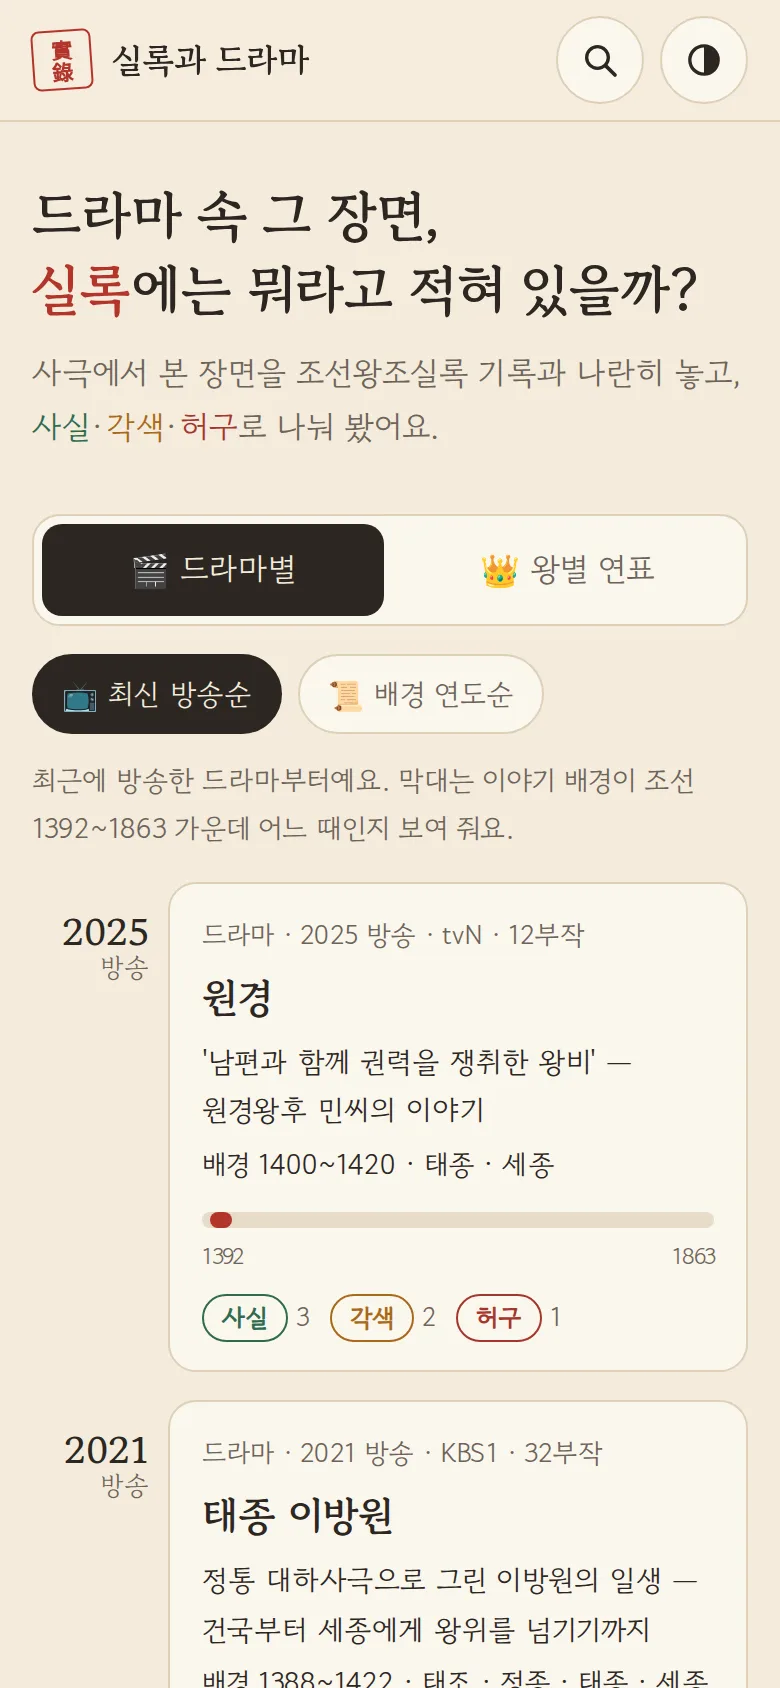
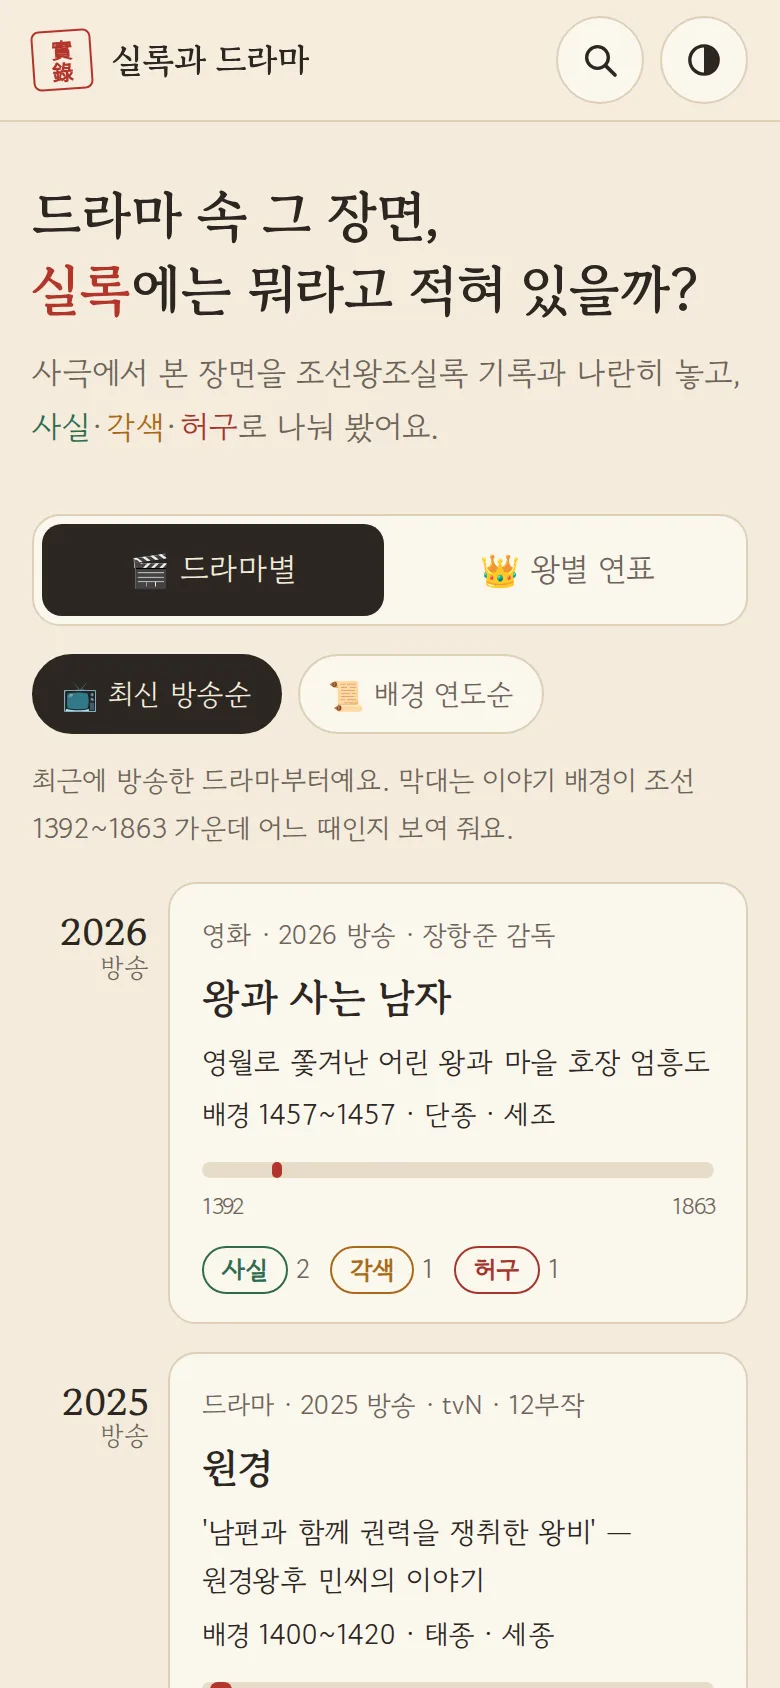
실록과 드라마 카드: 왕 25명·사건 166·드라마 28 반영(설명·첫 화면 캡처) + 작업 히스토리

diff --git a/app/data/apps.ts b/app/data/apps.ts
@@ -498,22 +498,22 @@ export const apps: App[] = [
     longDescription: `사극에서 본 장면을 조선왕조실록 기록과 나란히 놓고, 사실·각색·허구 도장을 찍었습니다. 실록이 뼈대이고 드라마는 입구예요.
 
 🎬 드라마로 들어가기
-『원경』 · 『옷소매 붉은 끝동』 · 『태종 이방원』 · 『장옥정, 사랑에 살다』 · 『동이』 · 『사도』(영화) · 『육룡이 나르샤』 · 『이산』 · 『7일의 왕비』 · 『대장금』 · 『여인천하』 — 최신 방송순(또는 배경 연도순)으로 골라, 장면마다 드라마 내용과 실제 기록을 비교하고 그 사건의 실록 페이지로 이어집니다. 결말 내용은 흐리게 가려 두고, 누르면 보여요.
+드라마·영화 28편 — 『왕과 사는 남자』 『원경』 『연인』 『노량』 『올빼미』 『한산』 『옷소매 붉은 끝동』 『철인왕후』 『태종 이방원』 『남한산성』 『구르미 그린 달빛』 『사도』 『명량』 『관상』 『장옥정』 『광해』 『뿌리 깊은 나무』 『공주의 남자』 『동이』 『이산』 『왕의 남자』 『대장금』 『불멸의 이순신』 『여인천하』 등. 최신 방송순(또는 배경 연도순)으로 골라, 장면마다 드라마 내용과 실제 기록을 비교하고 그 사건의 실록 페이지로 이어집니다. 결말 내용은 흐리게 가려 두고, 누르면 보여요.
 
 📜 왕별 실록 연표
-조선 왕 25명을 연도순으로, 왕 이름을 누르면 펼쳐져요. 지금은 태조~태종 시대(정몽주의 죽음, 두 차례 왕자의 난, 후궁을 들이자 울며 막아선 원경왕후, 민씨 형제의 몰락, 양녕 폐세자) 사건 25개, 중종 시대(중종반정, 7일 만에 폐위된 왕비 신씨, 기묘사화, 의녀 대장금) 17개, 숙종 시대(경신·기사·갑술환국, 인현왕후 폐위와 복위, 희빈 장씨의 죽음, 백두산정계비) 13개, 영조·정조 시대(균역법, 임오화변과 사도세자, "과인은 사도세자의 아들이다", 의빈 성씨와 문효세자, 수원 화성) 25개. 드라마를 고르면 그 드라마에 나오는 사건만 걸러 볼 수 있어요.
+태조부터 철종까지 조선 왕 25명, 실록 사건 166개를 연도순으로. 왕 이름을 누르면 펼쳐져요. 정몽주의 죽음과 왕자의 난, 훈민정음과 최만리의 반대, 계유정난, 공길과 장녹수, 임진왜란과 이순신의 마지막 말, 영창대군의 죽음, 삼전도, 장희빈, 임오화변, "과인은 사도세자의 아들이다", 홍경래의 난까지. 드라마를 고르면 그 드라마에 나오는 사건만 걸러 볼 수 있어요.
 
 📄 사건 페이지
 실록 기록 요약, 출처(왕·연도·음력 날짜), 실록 사이트에서 원문을 찾을 검색어 복사, 그 사건을 다룬 드라마 장면, 이전·다음 사건. 사건마다 주소가 따로 있어 링크로 공유할 수 있어요.
 
 🔍 검색
-사람·사건·드라마 장면 본문까지 찾아요. 예: 정몽주, 왕자의 난, 조광조, 의녀
+사람·사건·드라마 장면 본문까지 찾아요. 예: 정몽주, 이순신, 장희빈, 사도세자
 
 • 사실: 실록(또는 같은 시대 기록)에 그대로 나오는 일
 • 각색: 실제 있었던 일·인물에 이야기를 덧붙이거나 바꾼 것
 • 허구: 기록에 없는, 작가가 지어낸 인물·사건
 
-요약은 직접 쓴 글이고, 드라마 줄거리는 공개된 소개·백과사전과 대조했습니다. 드라마 사진은 싣지 않았어요. 다른 왕과 드라마는 계속 늘려 갈 예정입니다.`,
+실록 날짜·문구는 위키문헌에 옮겨진 실록 원문(없는 왕은 백과사전)과 대조했고, 요약은 직접 쓴 글이에요. 드라마 줄거리는 공개된 소개·기사·백과사전과 대조했습니다. 드라마 사진은 싣지 않았어요. 다른 왕과 드라마는 계속 늘려 갈 예정입니다.`,
     platform: 'Web (HTML5)',
     iconUrl: '/apps/drama-sillok/icon.png',
     screenshots: ['/apps/drama-sillok/screen1.webp', '/apps/drama-sillok/screen2.webp', '/apps/drama-sillok/screen3.webp', '/apps/drama-sillok/screen4.webp'],

diff --git a/CLAUDE.md b/CLAUDE.md
@@ -78,6 +78,7 @@ version: 'x.y.z+build'
 ## 작업 히스토리
 
 ### 2026-10-27
+- 실록과 드라마 대량 채움(사용자: '물어보지 말고 꽉꽉'): 조선 왕 25명 모두, 사건 166 · 드라마·영화 28. apps.ts 설명 다시 씀·첫 화면 캡처 screen1 갱신. 소스 sillok CLAUDE.md
 - 실록과 드라마 숙종 시대 채움: 사건 67 → 80, 드라마 9 → 11(동이·장옥정, 사랑에 살다). apps.ts 설명
 - 실록과 드라마 영조·정조 시대 채움: 사건 42 → 67, 드라마 6 → 9(옷소매 붉은 끝동·이산·영화 사도). apps.ts 설명
 - 실록과 드라마 태종 시대 채움: 사건 17 → 42(태조·정종·태종·세종), 드라마 3 → 6(원경·태종 이방원·육룡이 나르샤), 실록 날짜는 위키문헌 원문으로 대조. apps.ts 설명·첫 화면 캡처 screen1 갱신
